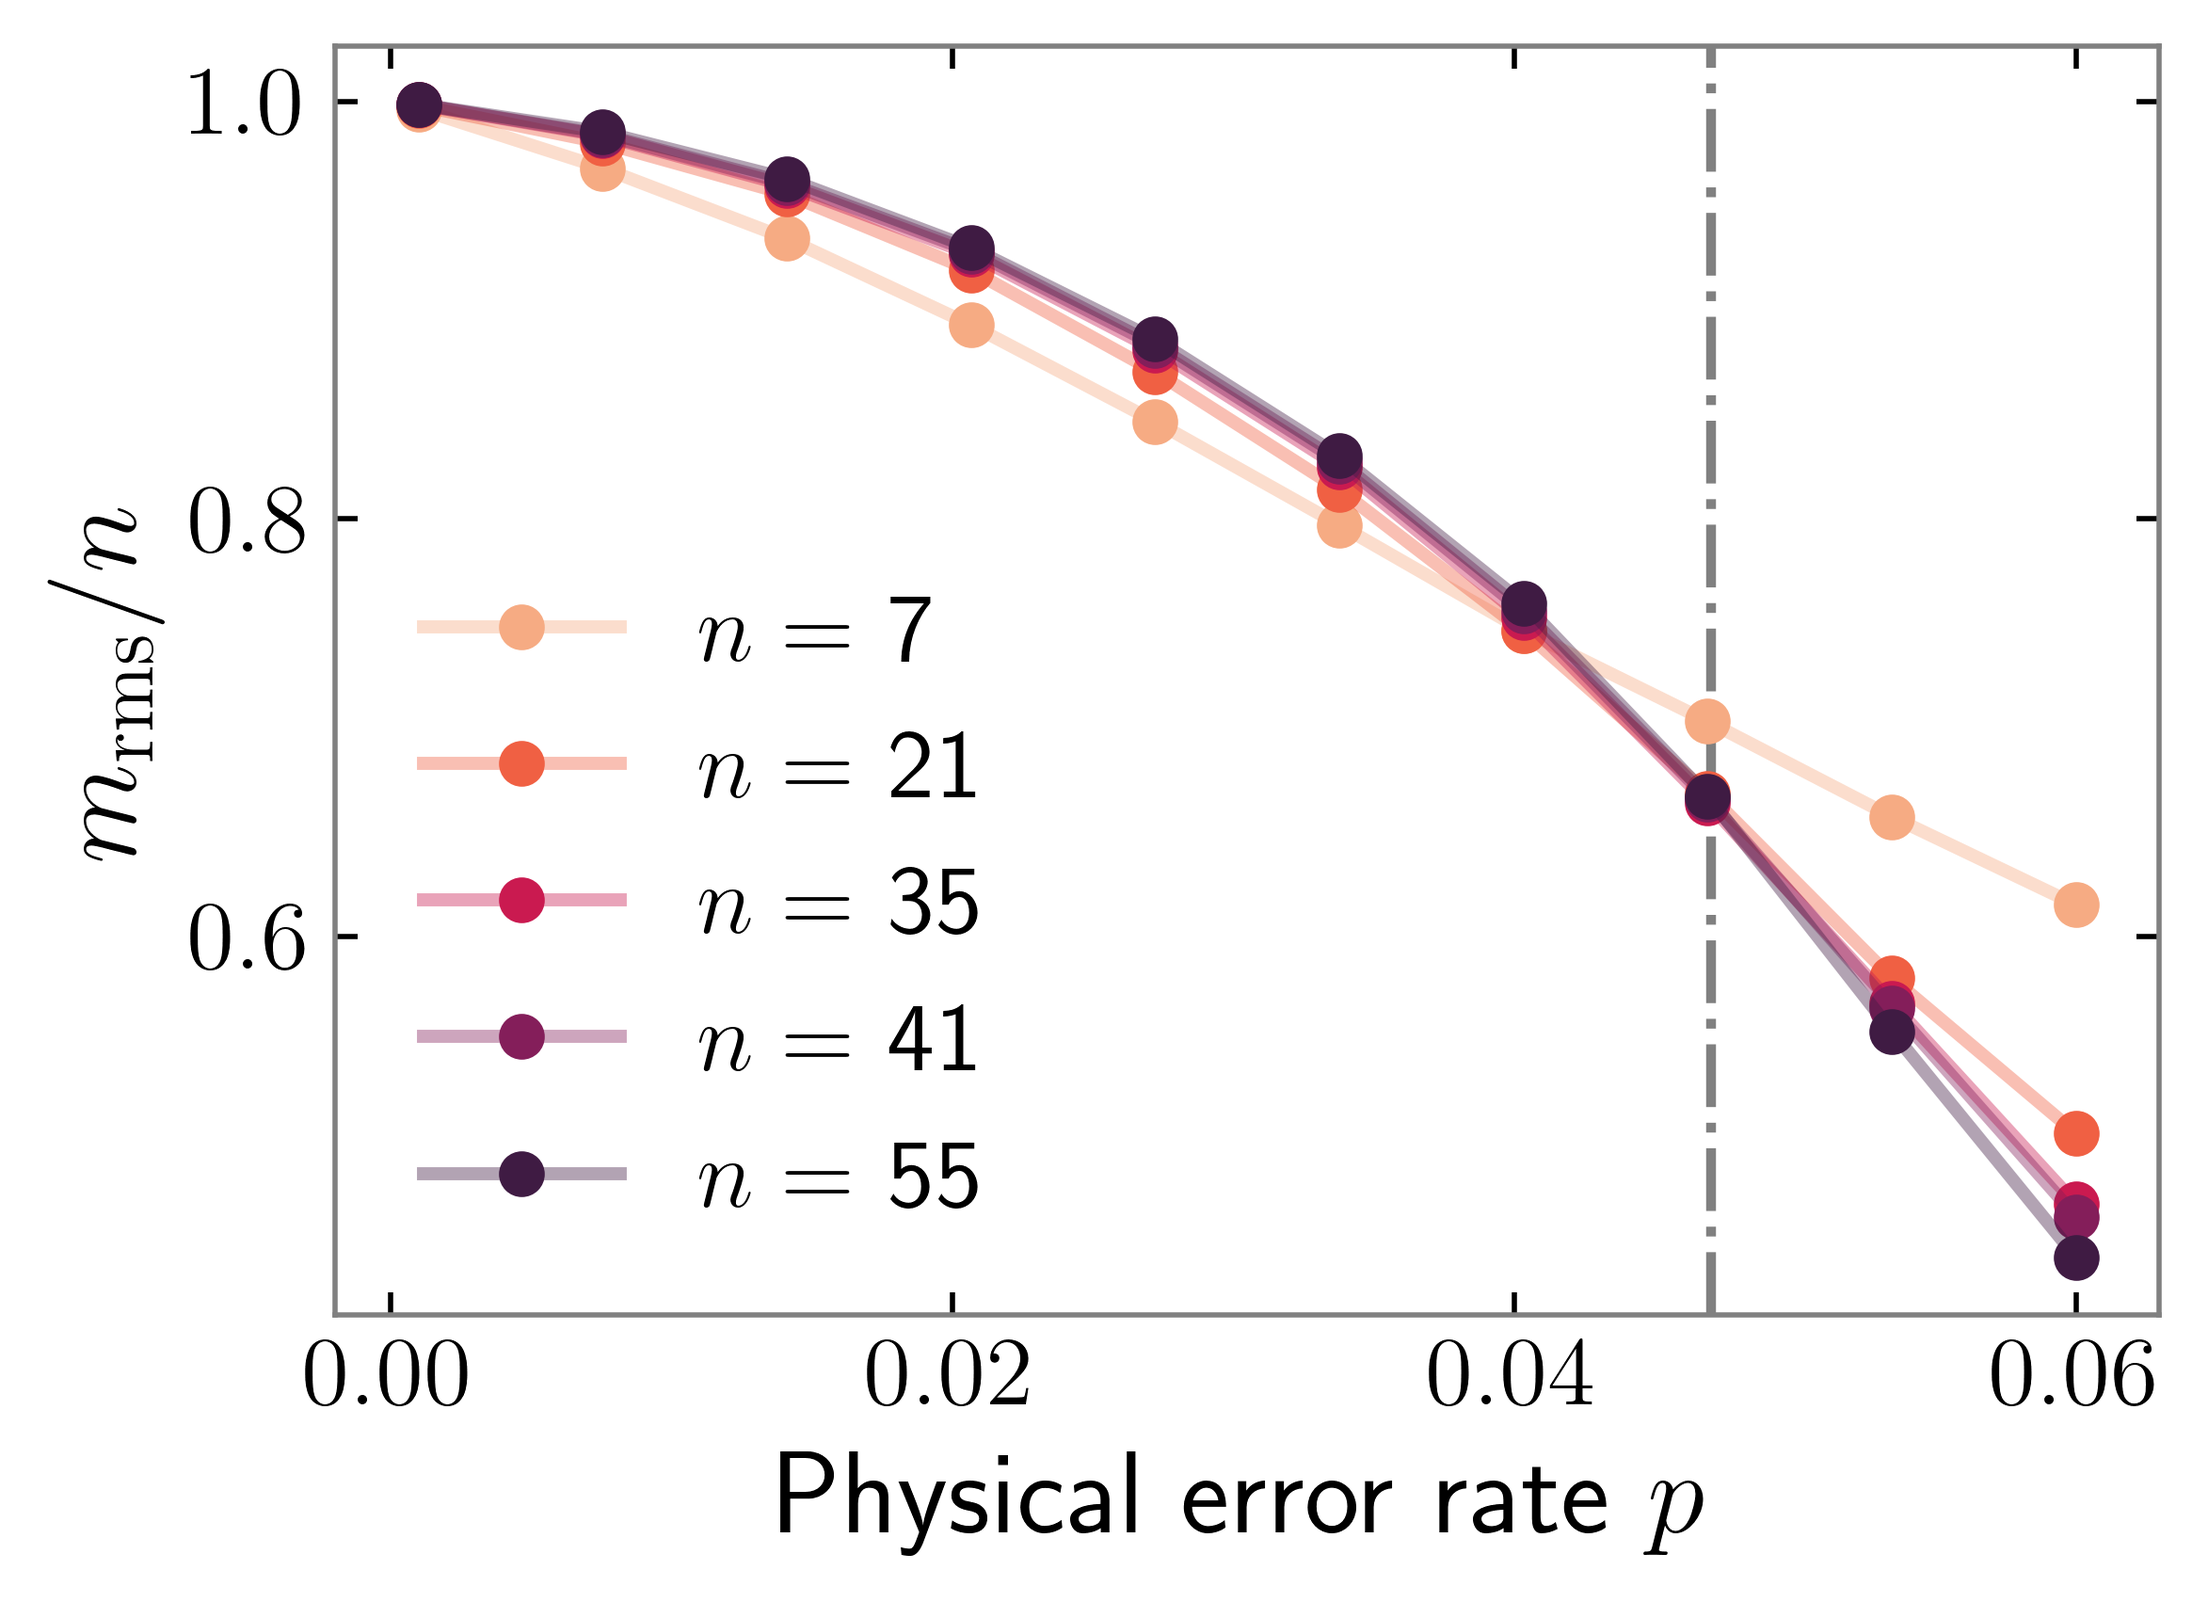
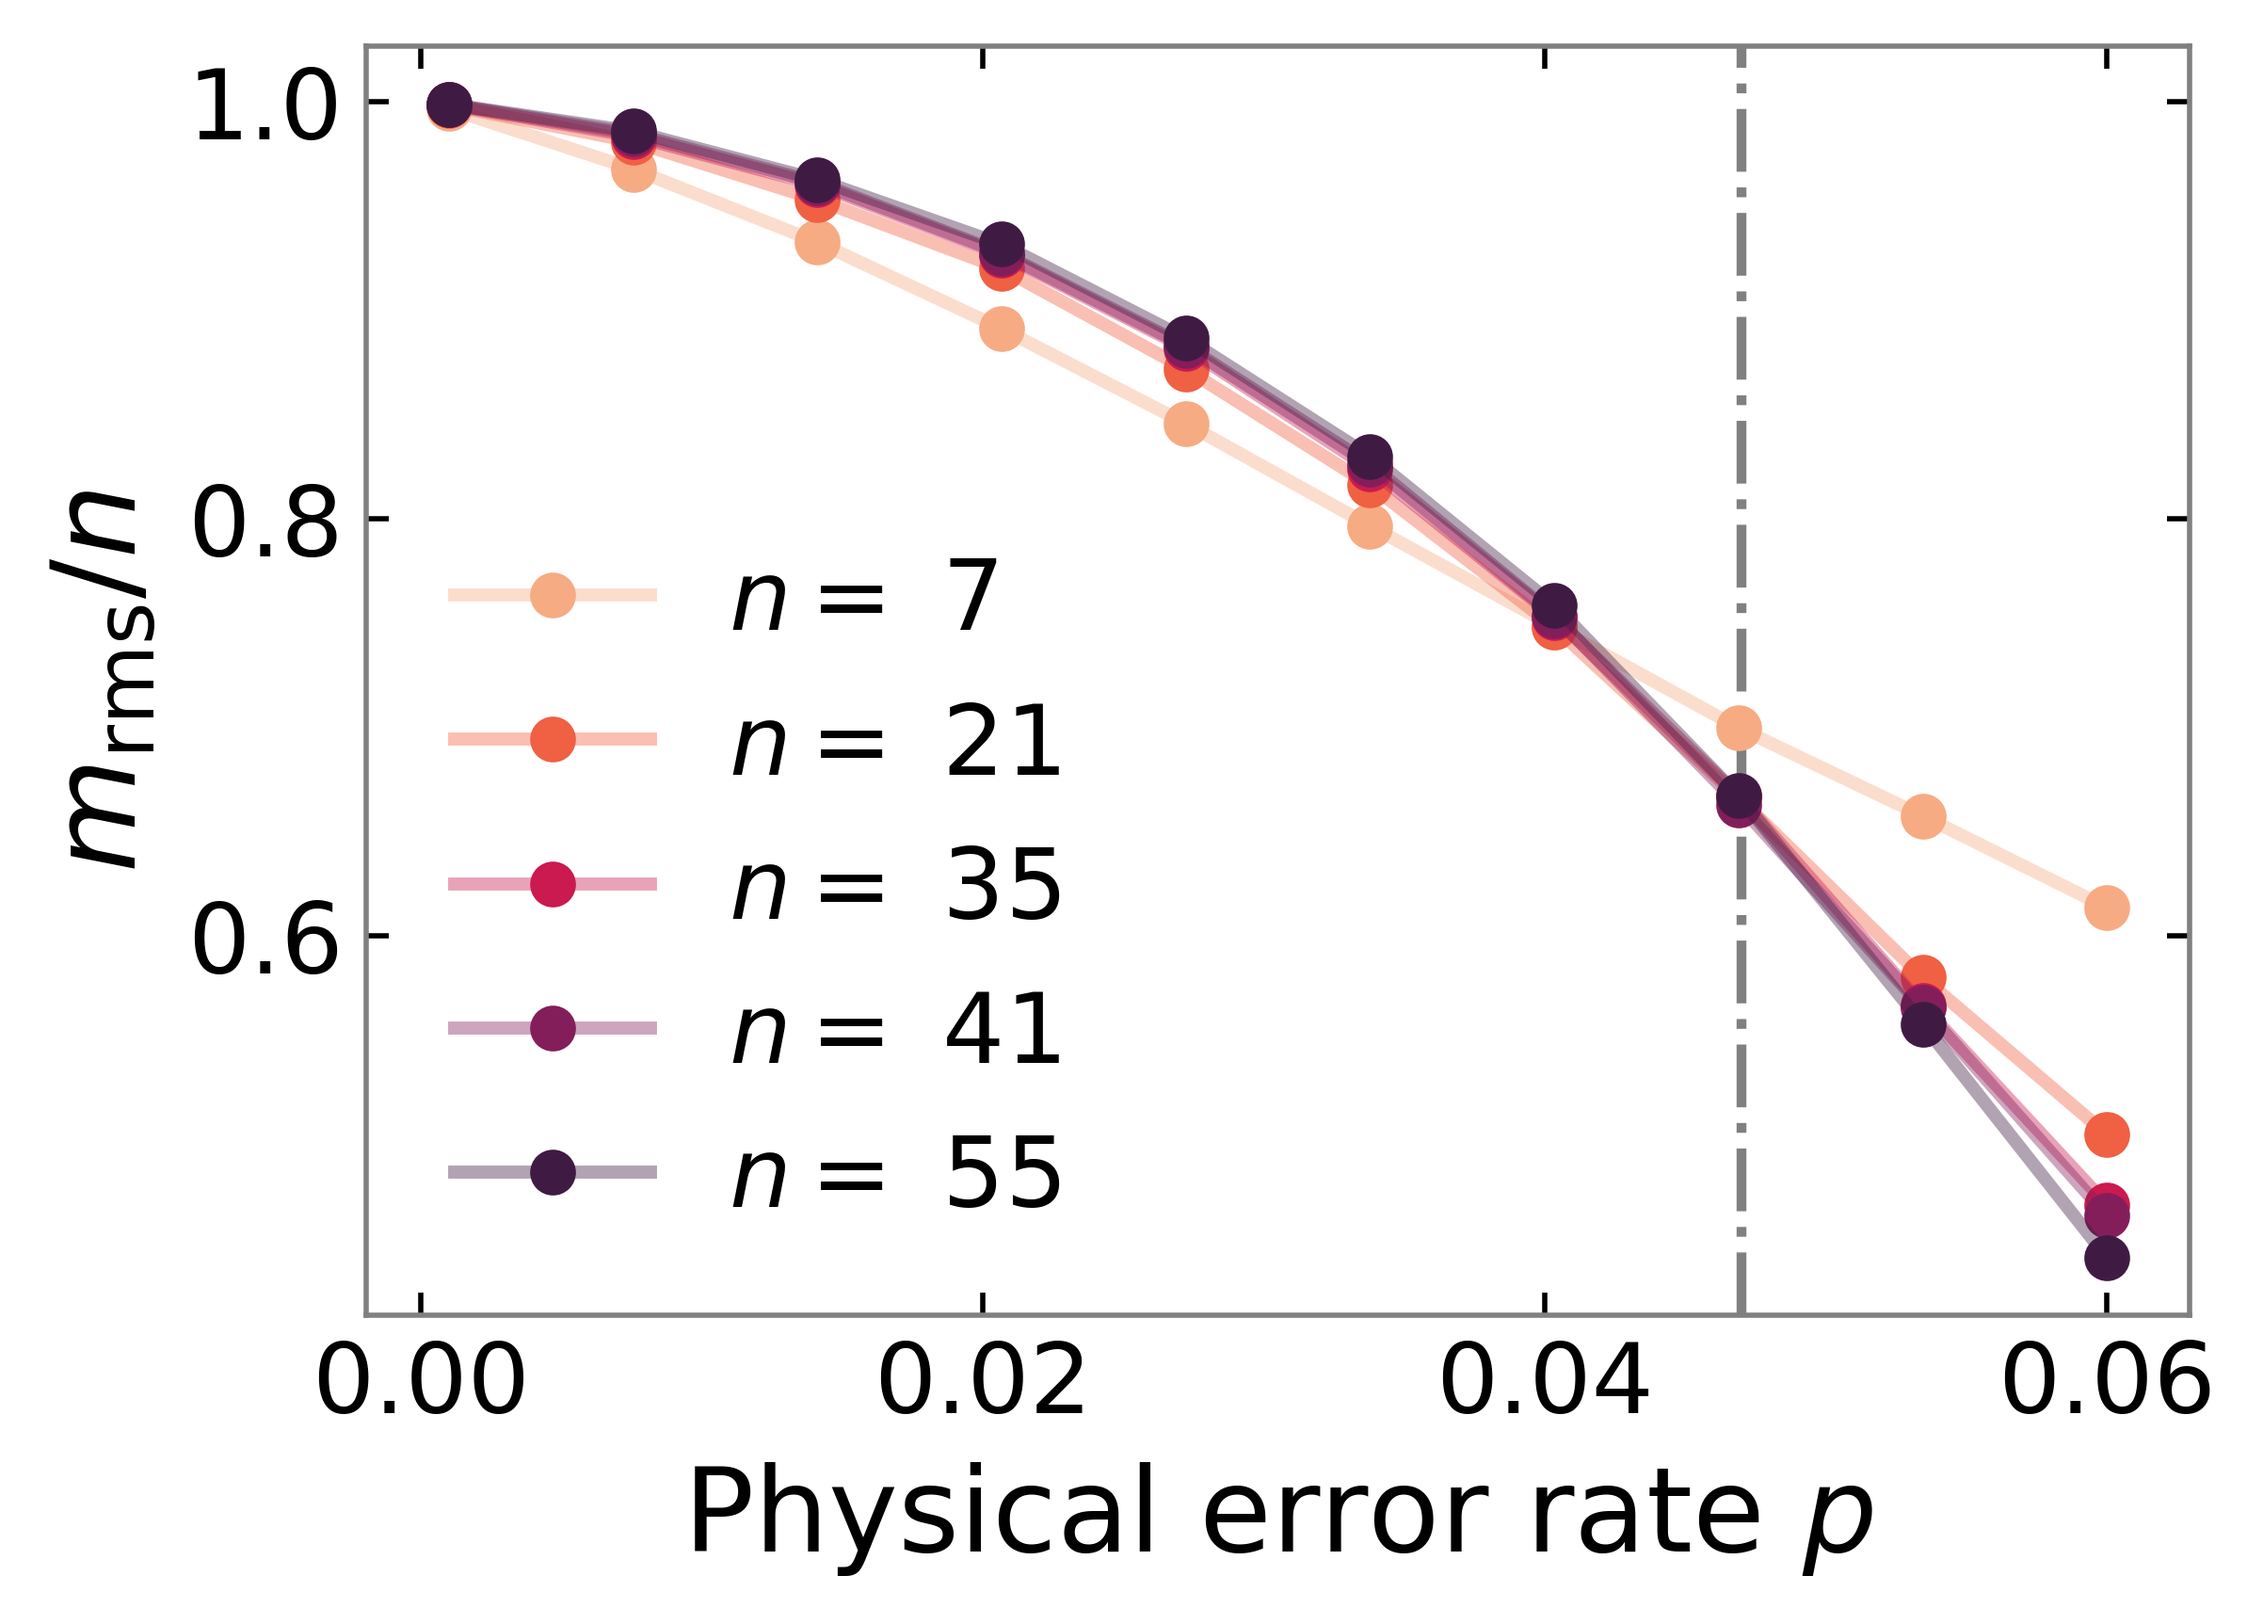
minor formatting.

diff --git a/state-prep/correlated-noise/main.py b/state-prep/correlated-noise/main.py
@@ -179,17 +179,15 @@ d = np.array([7, 21 , 35, 41, 55], dtype = int)
 L =  np.array(5*np.ceil(np.log(d)), dtype = int)
 # L = np.copy(d) 
 
-phases = []
+# phases = np.zeros((len(d), len(p)), dtype = float)
 
-for j in range(len(d)):
-    phase = np.zeros_like(p,dtype = float)
-    for i in tqdm(range(len(p))):
-        phase[i] = estimate_msp(p[i], p[i], p2[i], p[i], d[j], L[j] ,num_shots)
-    phases.append(phase)
+# for j in range(len(d)):
+#     for i in tqdm(range(len(p))):
+#         phases[j,i] = estimate_msp(p[i], p[i], p2[i], p[i], d[j], L[j] ,num_shots)
 
-np.savetxt('data/msp.txt', phases)
+# np.savetxt('data/msp.txt', phases)
 
-print('Data saved.')
+# print('Data saved.')
 
 
 print('Finding threshold...')
@@ -202,8 +200,8 @@ d1 = 21; d2 = 42
 num_shots = 20000
 
 
-r1 = np.sqrt(estimate_msp(p, p, p2, p, d1, 5*np.ceil(np.log(d1)) ,num_shots)/d1**2)
-r2 = np.sqrt(estimate_msp(p, p, p2, p, d2, 5*np.ceil(np.log(d1)) ,num_shots)/d2**2)
+r1 = np.sqrt(estimate_msp(p, p, p2, p, d1, int(5*np.ceil(np.log(d1))) ,num_shots)/d1**2)
+r2 = np.sqrt(estimate_msp(p, p, p2, p, d2, int(5*np.ceil(np.log(d2))) ,num_shots)/d2**2)
 
 print('average mean square phase value at system size 21 and 42, respectively')
 
@@ -212,8 +210,8 @@ print(r1, r2)
 while (r2-r1)>= 0:
 
     p += dp
-    r1 = np.sqrt(estimate_msp(p, p, p2, p, d1, 5*np.ceil(np.log(d1)) ,num_shots)/d1**2)
-    r2 = np.sqrt(estimate_msp(p, p, p2, p, d2, 5*np.ceil(np.log(d1)) ,num_shots)/d2**2)
+    r1 = np.sqrt(estimate_msp(p, p, p2, p, d1, int(5*np.ceil(np.log(d1))) ,num_shots)/d1**2)
+    r2 = np.sqrt(estimate_msp(p, p, p2, p, d2, int(5*np.ceil(np.log(d2))) ,num_shots)/d2**2)
 
     print(r1, r2)
 
@@ -222,6 +220,8 @@ print('Cross-over found at ', p)
 
 print('Generating plot...')
 
+phase = np.loadtxt('data/msp.txt')
+p = np.linspace(0.001,0.06,10)
 fig, ax = plt.subplots(figsize = (5,3.5))
 
 import seaborn as sns
@@ -230,7 +230,7 @@ pal = sns.color_palette("rocket_r", n_colors=len(d))
 
 for i in range(len(d)):
 
-    phase = phases[i]
+    phase = phases[i, :]
     
     ax.plot(
         p, np.sqrt(phase/d[i]**2),

diff --git a/state-prep/correlated-noise/funcs.py b/state-prep/correlated-noise/funcs.py
@@ -3,11 +3,12 @@ import numpy as np
 import pymatching
 import sinter
 from typing import List
-import matplotlib.pyplot as plt
-from joblib import Parallel, delayed
-import matplotlib
-matplotlib.use("TkAgg")  # or "Qt5Agg"
 
+from joblib import Parallel, delayed
+
+
+import matplotlib
+matplotlib.use("TkAAgg")  # or "Qt5Agg"
 
 import matplotlib.pyplot as plt
 plt.rcParams['font.family'] = 'sans-serif'
